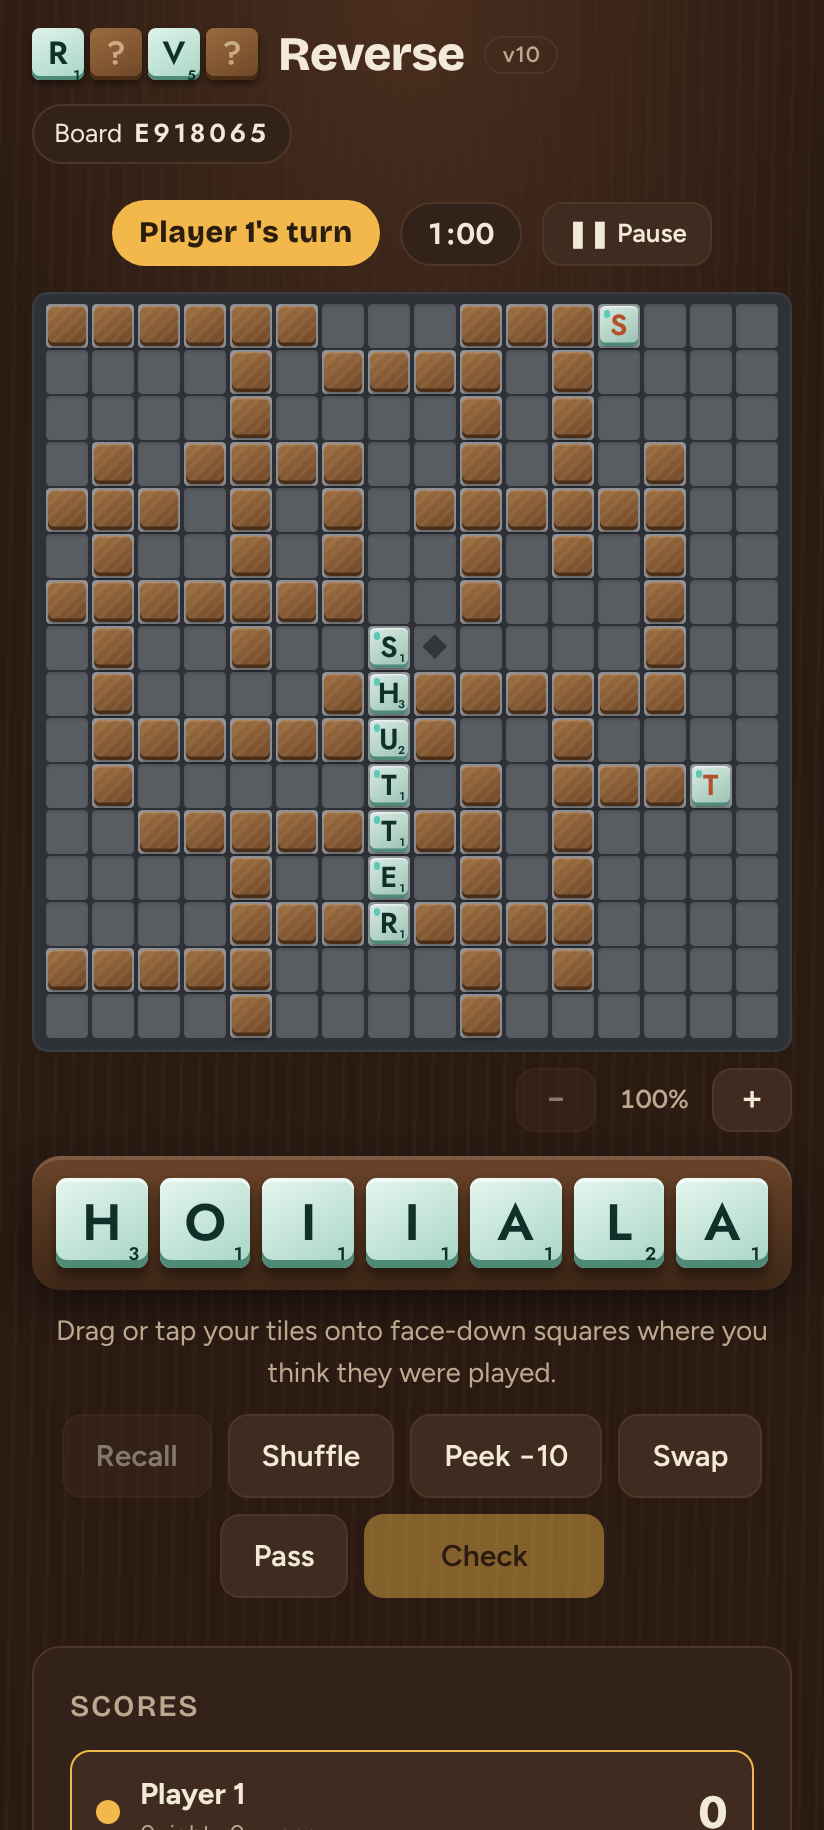
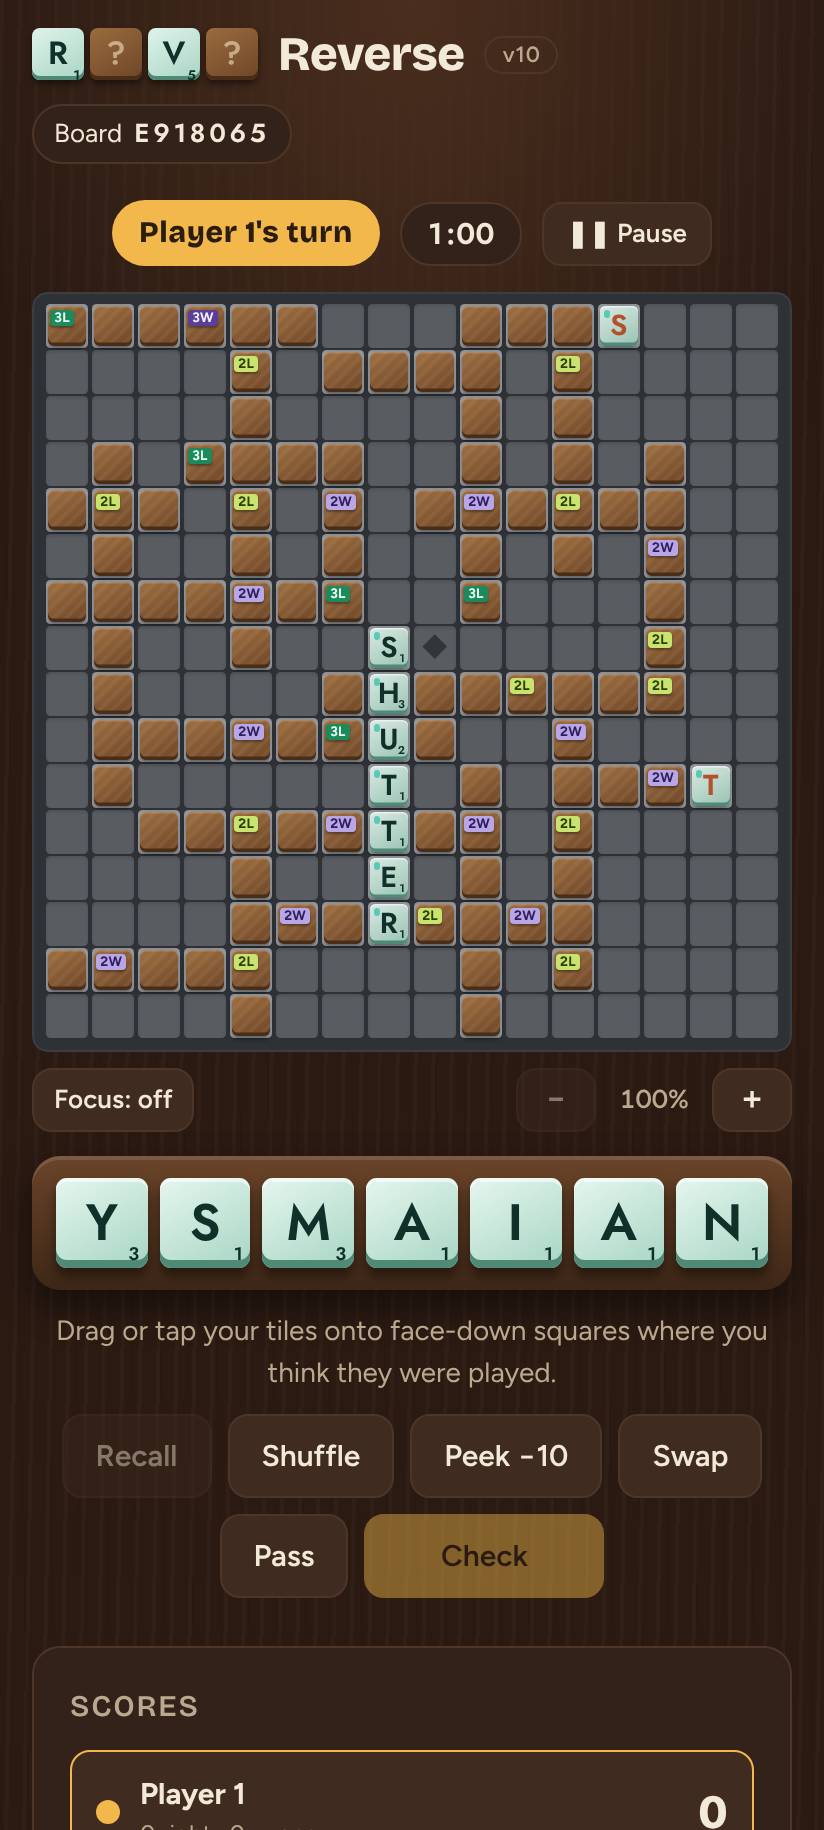
Bring back tile bonus badges and a three-way Focus button
- Face-down tiles show their 2L/3L/2W/3W badge again; empty squares stay
  plain dark grey.
- Focus button (or F) cycles: off (badges), on (no badges), show bonuses
  (every bonus square coloured and labelled as a map). Remembered per device.
- config.js: board.defaultView replaces showBonusSquares.

Claude-Session: https://claude.ai/code/session_01ViRarTws4VbgujxtyNyeFQ

diff --git a/index.html b/index.html
@@ -140,15 +140,15 @@ h2 { font-size: 15px; font-weight: 600; letter-spacing: .06em; text-transform: u
 .cell.hover { outline: .4cqw solid var(--accent); outline-offset: -.2cqw; }
 .cell.target { cursor: pointer; }
 .cell.target:hover { filter: brightness(1.12); }
-/* Plain board: bonus squares are hidden, so empty squares are plain dark grey and tile backs carry no bonus badge.
-   They still score. Set board.showBonusSquares: true in config.js to show them again. */
-body:not(.show-bonus) .cell:is(.TW,.DW,.TL,.DL) { background: var(--cell); color: transparent; }
-body:not(.show-bonus) .cell.void { opacity: .35; }
-body:not(.show-bonus) .tile.down .pm { display: none; }
-body:not(.show-bonus) .board { background: var(--frame-edge); }
-body:not(.show-bonus) .legend { display: none; }
-.hidden-bonus { font-size: 12px; color: var(--muted); margin: 0; }
-body.show-bonus .hidden-bonus { display: none; }
+/* Board views, picked with the View button (body.view-*):
+   standard - empty squares plain dark grey; face-down tiles show their 2L/3L/2W/3W badge
+   focus    - as standard, but the badges on tiles are hidden too
+   all      - every bonus square is coloured and labelled, as a reference map */
+body:not(.view-all) .cell:is(.TW,.DW,.TL,.DL) { background: var(--cell); color: transparent; }
+body:not(.view-all) .cell.void { opacity: .35; }
+body:not(.view-all) .board { background: var(--frame-edge); }
+body.view-focus .tile.down .pm { display: none; }
+.zoom-ctl .view-btn { margin-right: auto; min-width: 0; font-size: 13px; }
 
 .tile { position: absolute; inset: 4%; border-radius: 14%; display: grid; place-items: center;
   background: linear-gradient(150deg, var(--tile-1) 10%, var(--tile-2));
@@ -367,6 +367,7 @@ body.show-bonus .hidden-bonus { display: none; }
         <div class="board-wrap">
           <div class="board-view" id="boardView"><div class="board-inner" id="boardInner"><div class="board" id="board"></div></div></div>
           <div class="zoom-ctl" role="group" aria-label="Board view">
+            <button class="btn small view-btn" id="viewBtn" type="button" title="Switch board view (F)"></button>
             <button class="btn small" id="zoomOut" type="button" aria-label="Zoom out" disabled>−</button>
             <output id="zoomPct">100%</output>
             <button class="btn small" id="zoomIn" type="button" aria-label="Zoom in">+</button>
@@ -406,7 +407,6 @@ body.show-bonus .hidden-bonus { display: none; }
             <span><i style="background:var(--tl)"></i>3L · letter ×3</span>
             <span><i style="background:var(--dl)"></i>2L · letter ×2</span>
           </div>
-          <p class="hidden-bonus">Bonus squares are hidden. They still double or triple letters and words, so a tile can score more than you expect.</p>
         </div>
         <button class="btn warn small" id="quitBtn" type="button">End game</button>
       </aside>
@@ -489,7 +489,6 @@ const cfgNum = (v, d, lo = 0) => Number.isFinite(+v) && v !== '' && v !== null &
     tileText: '--tile-ink', tileEdge: '--tile-edge', tileBack: '--back-1', tileBackShade: '--back-2', tileBackEdge: '--back-edge' };
   const root = document.documentElement.style;
   for (const [k, v] of Object.entries(CFG.colors || {})) if (map[k] && typeof v === 'string' && CSS.supports('color', v)) root.setProperty(map[k], v);
-  document.body.classList.toggle('show-bonus', CFG.board?.showBonusSquares === true);
 }
 
 // ---------- Rules data ----------
@@ -527,7 +526,7 @@ const store = {
 };
 
 const RULES = [
-  `Every square with a tile on it is a <b>face-down tile</b>. You can see the shape of the finished game, but not the letters.` + (document.body.classList.contains('show-bonus') ? ' The bonus squares are marked.' : ' The bonus squares are hidden, but they still count.'),
+  `Every square with a tile on it is a <b>face-down tile</b>. You can see the shape of the finished game and a badge on each tile that sits on a bonus square, but not the letters. The <b>Focus</b> button under the board switches between that view, a plainer one with no badges, and a map of every bonus square.`,
   `Each turn, put any number of your seven tiles on face-down squares, anywhere on the board. Press <b>Check</b> to flip them.`,
   `A <b>correct</b> tile stays face up and scores its letter value, doubled or tripled on a letter bonus square. Your letter points are then <b>multiplied by how many tiles you got right</b> that turn.`,
   `A <b>wrong</b> tile costs its letter value (at least 1) and goes back in the bag.`,
@@ -880,6 +879,20 @@ function showPause() {
   $('#unpauseBtn').focus();
 }
 $('#unpauseBtn').addEventListener('click', () => setPaused(false));
+
+// Board view: standard (tile badges), focus (no badges), all (every bonus square shown). Remembered on this device.
+const VIEWS = { standard: 'Focus: off', focus: 'Focus: on', all: 'Focus: show bonuses' };
+function setView(v) {
+  if (!VIEWS[v]) v = 'standard';
+  for (const k of Object.keys(VIEWS)) document.body.classList.toggle('view-' + k, k === v);
+  $('#viewBtn').textContent = VIEWS[v];
+  $('#viewBtn').setAttribute('aria-pressed', v !== 'standard');
+  $('#viewBtn').dataset.view = v;
+  store.set('rtt-view', v);
+}
+const nextView = () => { const k = Object.keys(VIEWS); setView(k[(k.indexOf($('#viewBtn').dataset.view) + 1) % k.length]); };
+$('#viewBtn').addEventListener('click', nextView);
+setView(store.get('rtt-view') || CFG.board?.defaultView || 'standard');
 
 $('#turnline').addEventListener('click', e => { if (e.target.closest('[data-act="pause"]')) setPaused(true); });
 
@@ -1366,6 +1379,7 @@ $('#board').addEventListener('click', e => {
 document.addEventListener('keydown', e => {
   if ((e.key === 'p' || e.key === 'P') && !e.target.closest('input') && G && !G.over && G.phase === 'turn') { setPaused(!G.paused); return; }
   if (G?.paused) return;
+  if ((e.key === 'f' || e.key === 'F') && !e.target.closest('input') && !e.ctrlKey && !e.metaKey) { nextView(); return; }
   if (e.key === 'Escape') { if (S.peekMode || S.swapMode || S.selected) { S.peekMode = false; S.swapMode = false; S.selected = null; render(); } }
   else if (e.key === 'Enter' && G?.phase === 'turn' && S.pend.size && !e.target.closest('button,input')) checkMove();
 });
@@ -1417,7 +1431,7 @@ function renderRack() {
   else if (S.swapMode) pv.innerHTML = `<span class="muted">Tap the tiles to put back in the bag (${S.swapSel.size} chosen, costs ${[...S.swapSel].reduce((n, id) => n + (VALUES[rackTile(id)?.ch] || 0), 0)} points). Swapping ends your turn.</span>`;
   else if (S.peekMode) pv.innerHTML = `<span class="muted">Tap any face-down tile to flip it for ${PEEK_COST} points.</span>`;
   else if (S.pend.size) {
-    let pot = 0; const showBonus = document.body.classList.contains('show-bonus'); for (const [i, t] of S.pend) pot += VALUES[t.ch] * (showBonus ? letterMult(i) : 1);
+    let pot = 0; for (const [i, t] of S.pend) pot += VALUES[t.ch] * letterMult(i);
     pv.innerHTML = `<span class="muted">${S.pend.size} tile${S.pend.size > 1 ? 's' : ''} down. All right would be at least <b style="color:var(--ink)">${pot * S.pend.size}</b>; each wrong one costs its value.</span>`;
   } else if (S.selected) pv.innerHTML = '<span class="muted">Tap a face-down tile to put your letter there, or drag it.</span>';
   else pv.innerHTML = G.phase === 'turn' ? '<span class="muted">Drag or tap your tiles onto face-down squares where you think they were played.</span>' : '';

diff --git a/config.js b/config.js
@@ -19,7 +19,7 @@ window.RTT_CONFIG = {
     square: '#a9adb3',          // plain squares
     squareText: '#3c4046',
 
-    // Bonus squares (background, then label colour). Only seen when board.showBonusSquares is true.
+    // Bonus squares (background, then label colour), used for the tile badges and the 'all' view
     word3: '#5b3d9a',   word3Text: '#f4eeff',    // 3W
     word2: '#b9a6e6',   word2Text: '#2f1d5c',    // 2W
     letter3: '#1d8a5c', letter3Text: '#eafff4',  // 3L
@@ -54,8 +54,10 @@ window.RTT_CONFIG = {
   },
 
   board: {
-    // The bonus squares (2L, 3L, 2W, 3W) are hidden: empty squares are plain dark grey and tile backs
-    // have no bonus badge. They still score. Set this to true to show them again.
-    showBonusSquares: false,
+    // Which view the Focus button starts on, the first time the game is opened on a device:
+    //   'standard' - plain dark-grey empty squares, with a 2L/3L/2W/3W badge on tiles that sit on a bonus square
+    //   'focus'    - the same, without the badges
+    //   'all'      - every bonus square coloured and labelled, as a map of the board
+    defaultView: 'standard',
   },
 };

diff --git a/README.md b/README.md
@@ -6,7 +6,7 @@ A crossword tile game played backwards. A full game has already been played to t
 
 ## How it plays
 
-- The board shows the shape of the finished game on plain dark-grey squares, and each tile is face down. The bonus squares are hidden but still count, so a tile can score more than you expect.
+- The board shows the shape of the finished game on plain dark-grey squares, and each tile is face down. A tile on a bonus square carries a small 2L, 3L, 2W or 3W badge.
 - On your turn, drop any number of your seven tiles onto face-down squares, anywhere, and press **Check**.
 - **Right** tiles flip face up and score their letter value (doubled on **2L** squares, tripled on **3L**). Your letter points are **multiplied by the number of tiles you got right** that turn.
 - **Wrong** tiles cost their letter value (at least 1) and go back in the bag.
@@ -29,6 +29,8 @@ A crossword tile game played backwards. A full game has already been played to t
 - **Still face down** tracker: counts of every letter still hidden that isn't on your rack.
 
 
+- **Focus**: the button under the board (or the F key) switches the board view. **Off** shows the badges on tiles; **on** hides them too, so only letters and tile backs show; **show bonuses** colours and labels every bonus square as a map. Your device remembers the view.
+
 ### Boards
 
 - **Fresh deal**: a brand-new finished game.
@@ -41,10 +43,10 @@ A crossword tile game played backwards. A full game has already been played to t
 This game's board, bag and values are its own:
 
 - The board is **16 × 16**. There's no single middle square, so the first word of the finished game covers one of the four ◆ diamond start squares in the middle.
-- Hidden bonus squares, in this game's own layout: **2L / 3L** (letter ×2 / ×3) and **2W / 3W** (word ×2 / ×3).
+- Bonus squares, in this game's own layout: **2L / 3L** (letter ×2 / ×3) and **2W / 3W** (word ×2 / ×3).
 - The bag holds **112 tiles** (including 2 blanks).
 - Face-up tiles are sea-glass green, on a slate-grey board.
-- If you switch them on in `config.js`, the bonus colours are **3W** deep purple, **2W** lilac, **3L** emerald and **2L** lime.
+- Bonus colours: **3W** deep purple, **2W** lilac, **3L** emerald, **2L** lime.
 - Letter values: A E I N O R S T 1 · D L U 2 · C G H M P Y 3 · B F V W 5 · K 6 · X 8 · J Q Z 9. No letter is worth 4 or 10.
 
 Play solo, or pass one device around for 2 to 4 players. Your game is saved in the browser, so a reload picks up where you left off.
@@ -70,7 +72,7 @@ Open `config.js`, change a value, save, and reload the game. You can change:
 - **letterValues**: points for any letter, e.g. `{ Q: 8 }`. The board generator keeps the built-in values, so board codes still make the same boards.
 - **scoring**: clean sweep bonus, peek cost, hot streak step.
 - **timers**: the turn timer and game clock choices on the setup screen, and the default turn time.
-- **board.showBonusSquares**: `false` (the default) keeps the bonus squares hidden. Set it to `true` to show their colours and labels again.
+- **board.defaultView**: which Focus view a new device starts on (`'standard'`, `'focus'` or `'all'`).
 
 Delete a line, or the whole file, to go back to the default. For online games every player's copy should use the same `letterValues` and `scoring`. The Android app bundles `config.js` when it's built, so rebuild the app after changing it.
 
